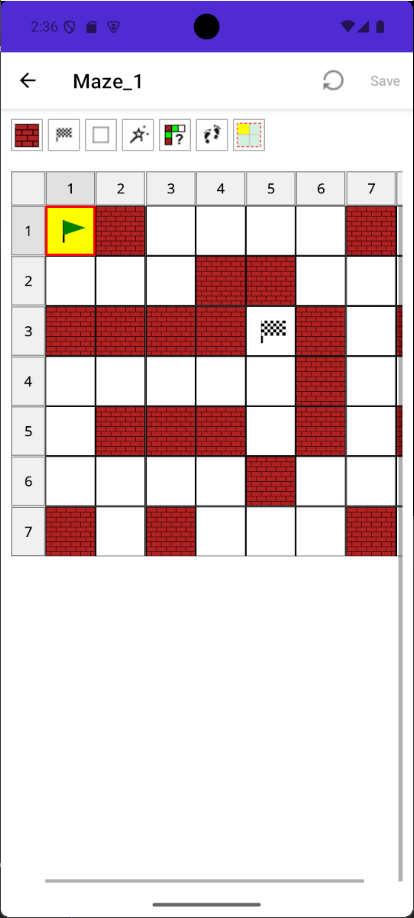
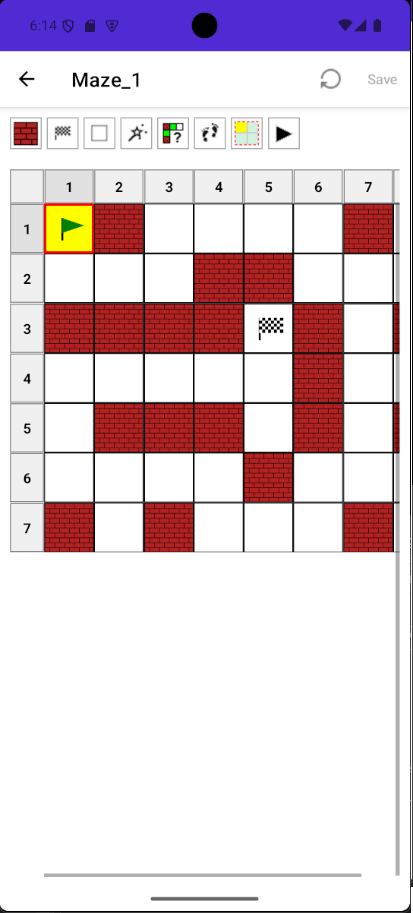
maze_web_server (React/Rust) / Maze.Maui.App: Update READMEs and screenshots/GIFs

diff --git a/README.md b/README.md
@@ -44,7 +44,7 @@ At this stage, the following areas are covered:
   - Supports interactive documentation in the form of [RapiDoc](https://rapidocweb.com/), [Redoc](https://redocly.com/redoc) and [Swagger UI](https://swagger.io/tools/swagger-ui/)
   - Serves a React Single Page Application (SPA) from a configurable static directory
 
-- Implementing a `React`/`TypeScript` web frontend ([`maze_web_server`](./src/react/maze_web_server/README.md)) that provides a browser-based UI for the `maze_web_server` REST API including maze management, generate, solve and walk solution animation (run entirely in-browser via the `maze_wasm` WebAssembly module). Testing with [Vitest](https://vitest.dev/), [React Testing Library](https://testing-library.com/), [Mock Service Worker](https://mswjs.io/), and [Playwright](https://playwright.dev/)
+- Implementing a `React`/`TypeScript` web frontend ([`maze_web_server`](./src/react/maze_web_server/README.md)) that provides a browser-based UI for the `maze_web_server` REST API including maze management, generate, solve, walk solution animation, and interactive maze gameplay (run entirely in-browser via the `maze_wasm` WebAssembly module). Testing with [Vitest](https://vitest.dev/), [React Testing Library](https://testing-library.com/), [Mock Service Worker](https://mswjs.io/), and [Playwright](https://playwright.dev/)
 
 - Implementing a `.NET` to Web Assembly ([`maze_wasm`](./src/rust/maze_wasm/README.md)) interop library ([`Maze.Interop`](./src/csharp/Maze.Interop/README.md)) in `C#` that supports [Wasmtime](https://docs.wasmtime.dev/) (for `Windows` and `Android`), [Wasmer](https://wasmer.io/) (for `Android` and `iOS` simulator), and a native C library via [`maze_c`](./src/rust/maze_c/README.md) (for `iOS`simulator and physical device)
 
@@ -83,7 +83,7 @@ The following components are present:
 | `src/react`                    | [`maze_web_server`](./src/react/maze_web_server/README.md)                    | React SPA frontend for Rust `maze_web_server`
 | `src/rust`                     | [`auth`](./src/rust/auth/README.md)                                           | Authentication library
 |                                | [`data_model`](./src/rust/data_model/README.md)                               | Data model library
-|                                | [`maze`](./src/rust/maze/README.md)                                           | Maze calculation library
+|                                | [`maze`](./src/rust/maze/README.md)                                           | Maze definition, calculation, and gaming engine library
 |                                | [`maze_c`](./src/rust/maze_c/README.md)                                       | Maze C API library
 |                                | [`maze_console`](./src/rust/maze_console/README.md)                           | Maze console application
 |                                | [`maze_openapi_generator`](./src/rust/maze_openapi_generator/README.md)       | Maze OpenAPI generator console application
@@ -102,12 +102,13 @@ The following components are present:
 
 ### MAUI app (Windows, iOS, Android)
 
-The Maze MAUI application running on Windows, iOS, and Android, showing a solved maze.
+The Maze MAUI application running on Windows, iOS, and Android.
 
 | | Windows | iOS | Android |
 |---|---------|-----|---------|
 | **Solved** | <img src="./src/csharp/Maze.Maui.App/Screenshots/windows-solved.png" width="250"> | <img src="./src/csharp/Maze.Maui.App/Screenshots/ios-solved.png" width="250"> | <img src="./src/csharp/Maze.Maui.App/Screenshots/android-solved.png" width="250"> |
-| **Walk Solution** | <img src = "./src/csharp/Maze.Maui.App/Screenshots/windows-walk.png" width="250"> | <img src = "./src/csharp/Maze.Maui.App/Screenshots/ios-walk.png" width="250"> | <img src = "./src/csharp/Maze.Maui.App/Screenshots/android-walk.png" width="250"> |
+| **Walk Solution** | <img src="./src/csharp/Maze.Maui.App/Screenshots/windows-walk.png" width="250"> | <img src="./src/csharp/Maze.Maui.App/Screenshots/ios-walk.png" width="250"> | <img src="./src/csharp/Maze.Maui.App/Screenshots/android-walk.png" width="250"> |
+| **Game** | <img src="./src/csharp/Maze.Maui.App/Screenshots/windows-game.png" width="250"> | <img src="./src/csharp/Maze.Maui.App/Screenshots/ios-game.png" width="250"> | <img src="./src/csharp/Maze.Maui.App/Screenshots/android-game.png" width="250"> |
 
 ### Web UI
 
@@ -130,6 +131,12 @@ The maze editor page, showing a solved maze.
 The maze editor animating a step-by-step walk of the solution path.
 
 <img src="./src/react/maze_web_server/screenshots/web-walk.gif" width="600">
+
+**Maze Game**
+
+Playing a maze — the player navigates using keyboard or D-pad, with visited cells marked as they are left.
+
+<img src="./src/react/maze_web_server/screenshots/web-game.gif" width="600">
 
 ## Getting Started
 

diff --git a/src/react/maze_web_server/README.md b/src/react/maze_web_server/README.md
@@ -10,8 +10,10 @@ Browser-based UI for the `maze_web_server` REST API. Features:
 - **Maze list** — create, rename, duplicate, delete, and open mazes
 - **Maze editor** — cell-by-cell editing (walls, start, finish), multi-cell range selection,
   structural editing (insert/delete rows and columns), keyboard shortcuts
-- **In-browser WASM** — maze generation and solving run locally via the `maze_wasm`
-  WebAssembly module with no server round-trip
+- **Maze game** — play a maze at `/play/:id` with keyboard (arrow keys / WASD) or
+  on-screen D-pad; visited cells are marked; completion shows a result popup
+- **In-browser WASM** — maze generation, solving, and game logic run locally via the
+  `maze_wasm` WebAssembly module with no server round-trip
 
 ## Tech stack
 

diff --git a/src/rust/README.md b/src/rust/README.md
@@ -6,7 +6,7 @@ The following `Rust` crates are present:
 
 | Folder | Crate | Description
 |--------|-----------|---------------
-| `src/rust` | [`maze`](./maze/README.md) | Maze definition, calculation, and game logic library
+| `src/rust` | [`maze`](./maze/README.md) | Maze definition, calculation, and gaming engine library
 |            | [`maze_c`](./maze_c/README.md) | Maze C API library
 |            | [`maze_console`](./maze_console/README.md) | Maze console application
 |            | [`maze_openapi_generator`](./maze_openapi_generator/README.md) | Maze OpenAPI generator console application
